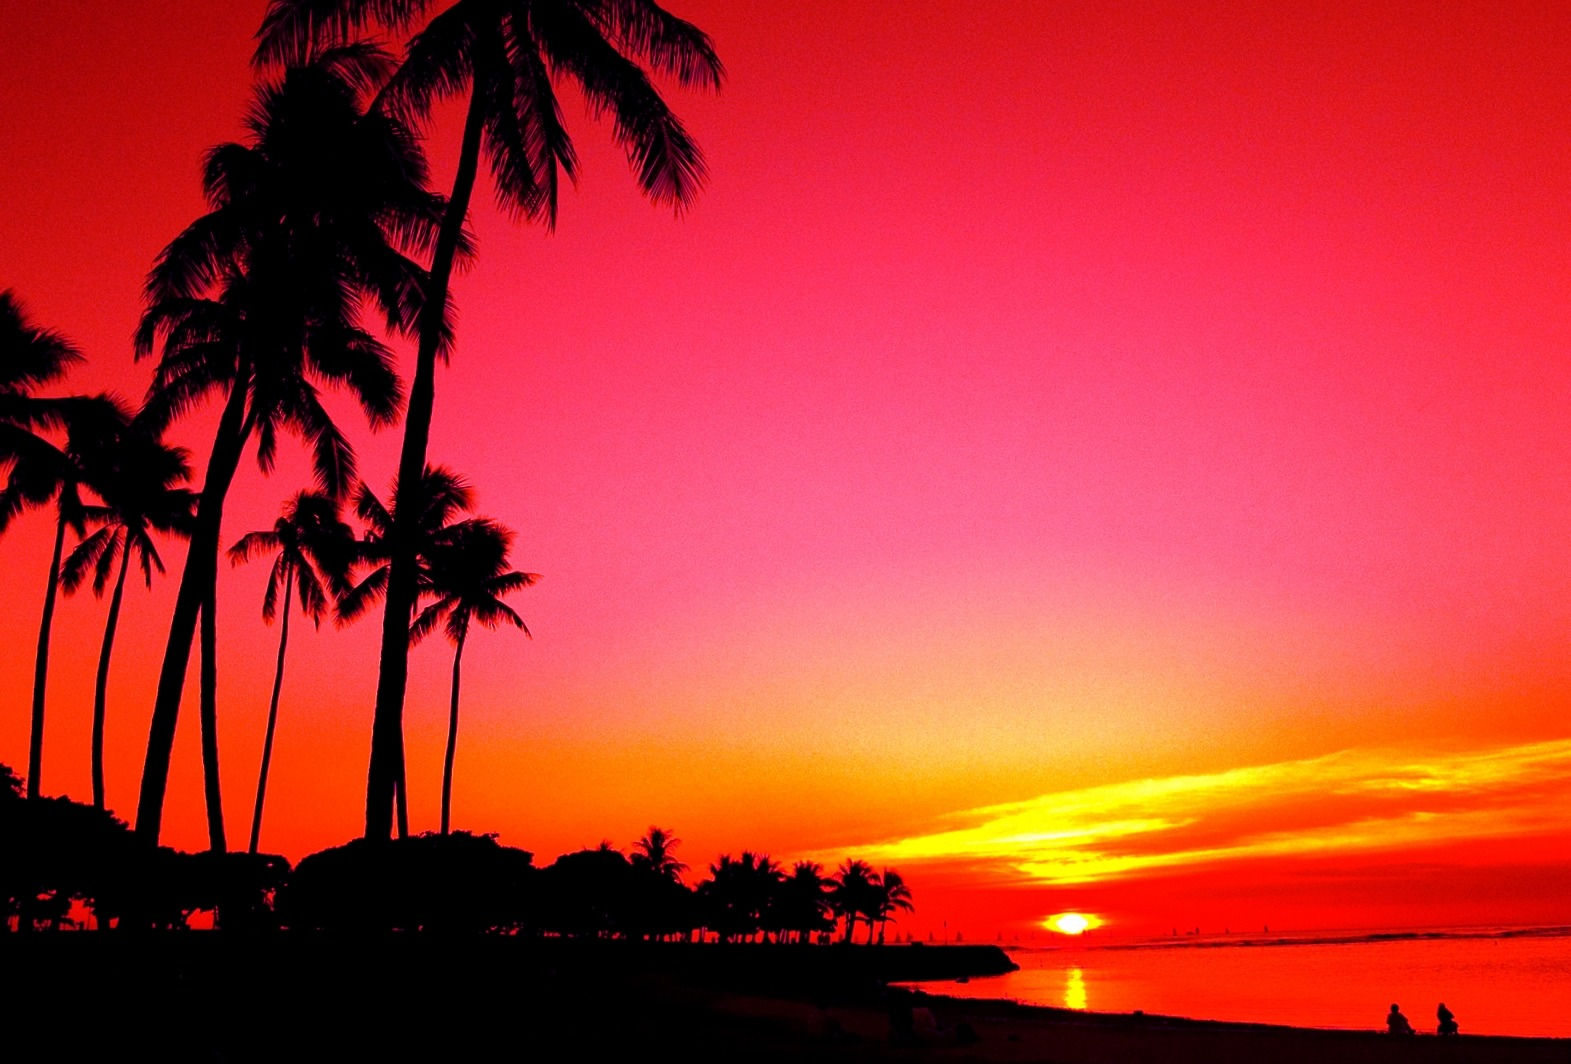
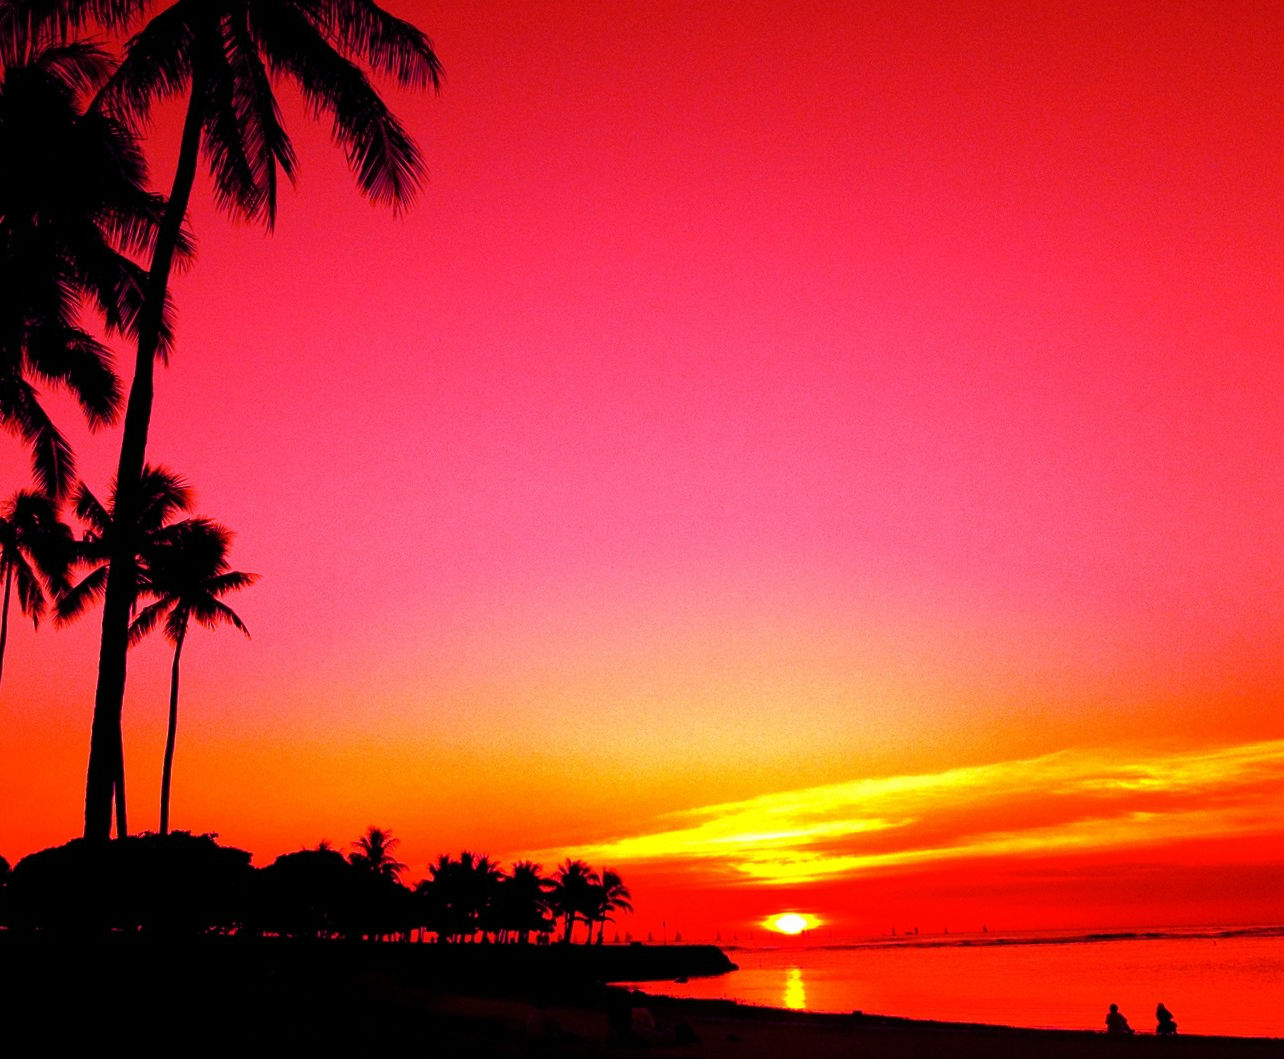
realign bckground bruh

diff --git a/static/themes/garden_lights-plum/v1/style-6d2c9ce2ce53e10893c06e8629817294.css b/static/themes/garden_lights-plum/v1/style-6d2c9ce2ce53e10893c06e8629817294.css
@@ -66,7 +66,7 @@ button:hover {
 #main-container-background {
   background-image: url(/static/images/background.jpg);
   background-repeat: no-repeat;
-  background-position: top;
+  background-position: top left;
   background-size: cover;
 }
 
